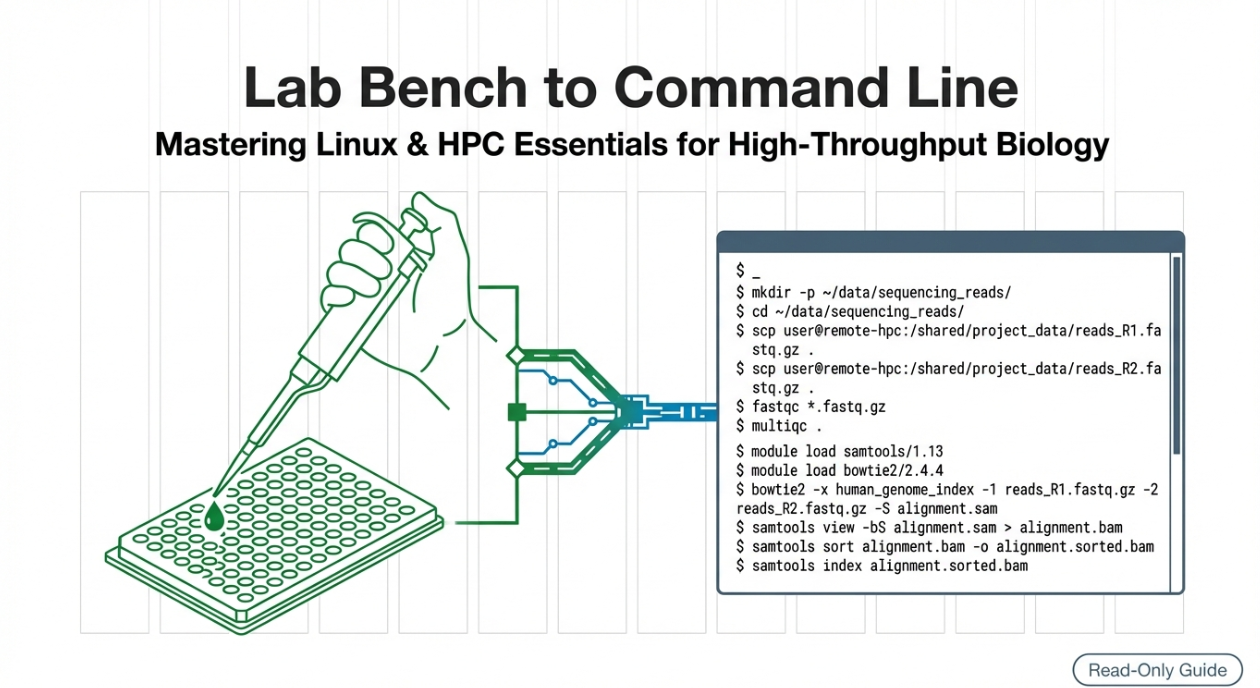
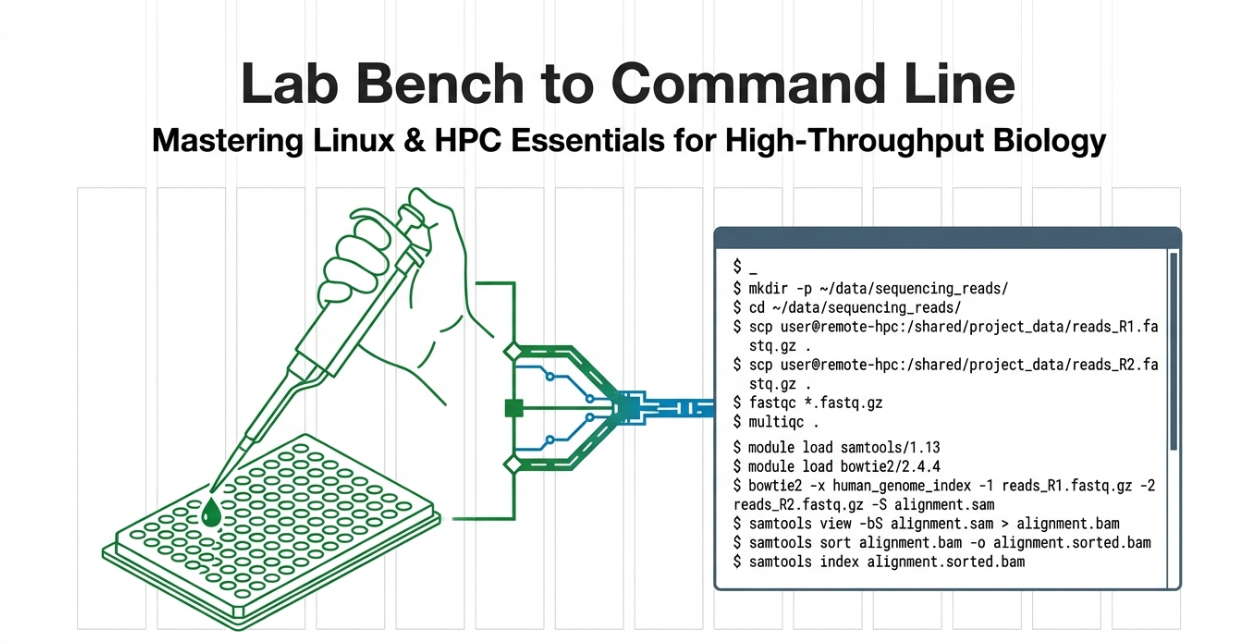
Fix image paths and assets location

Changed region(s): [[0.0609, 0.2795, 1.0, 1.0], [0.1219, 0.0932, 0.8837, 0.2484], [0.4266, 0.2795, 0.4571, 0.3106]]

diff --git a/docs/index.md b/docs/index.md
@@ -26,9 +26,8 @@
 * PBS script and Job management
 
 ---
-
-![Image Description Goes Here](assets/img/1.png)
-![Image Description Goes Here](assets/img/2.png)
+<img src="assets/images/1.png" width="300">
+<img src="assets/images/2.png" width="300">
 
 ## Introduction
 With the avant-garde technologies and constant evolution of scientific knowledge, biologists are faced with an increasing need for bioinformatics skills to deal with high-throughput data storage, retrieval, and analysis. Although several resources developed for such tasks have a graphical user interface, many operations can be more efficiently handled with command-line programs and utilities.
